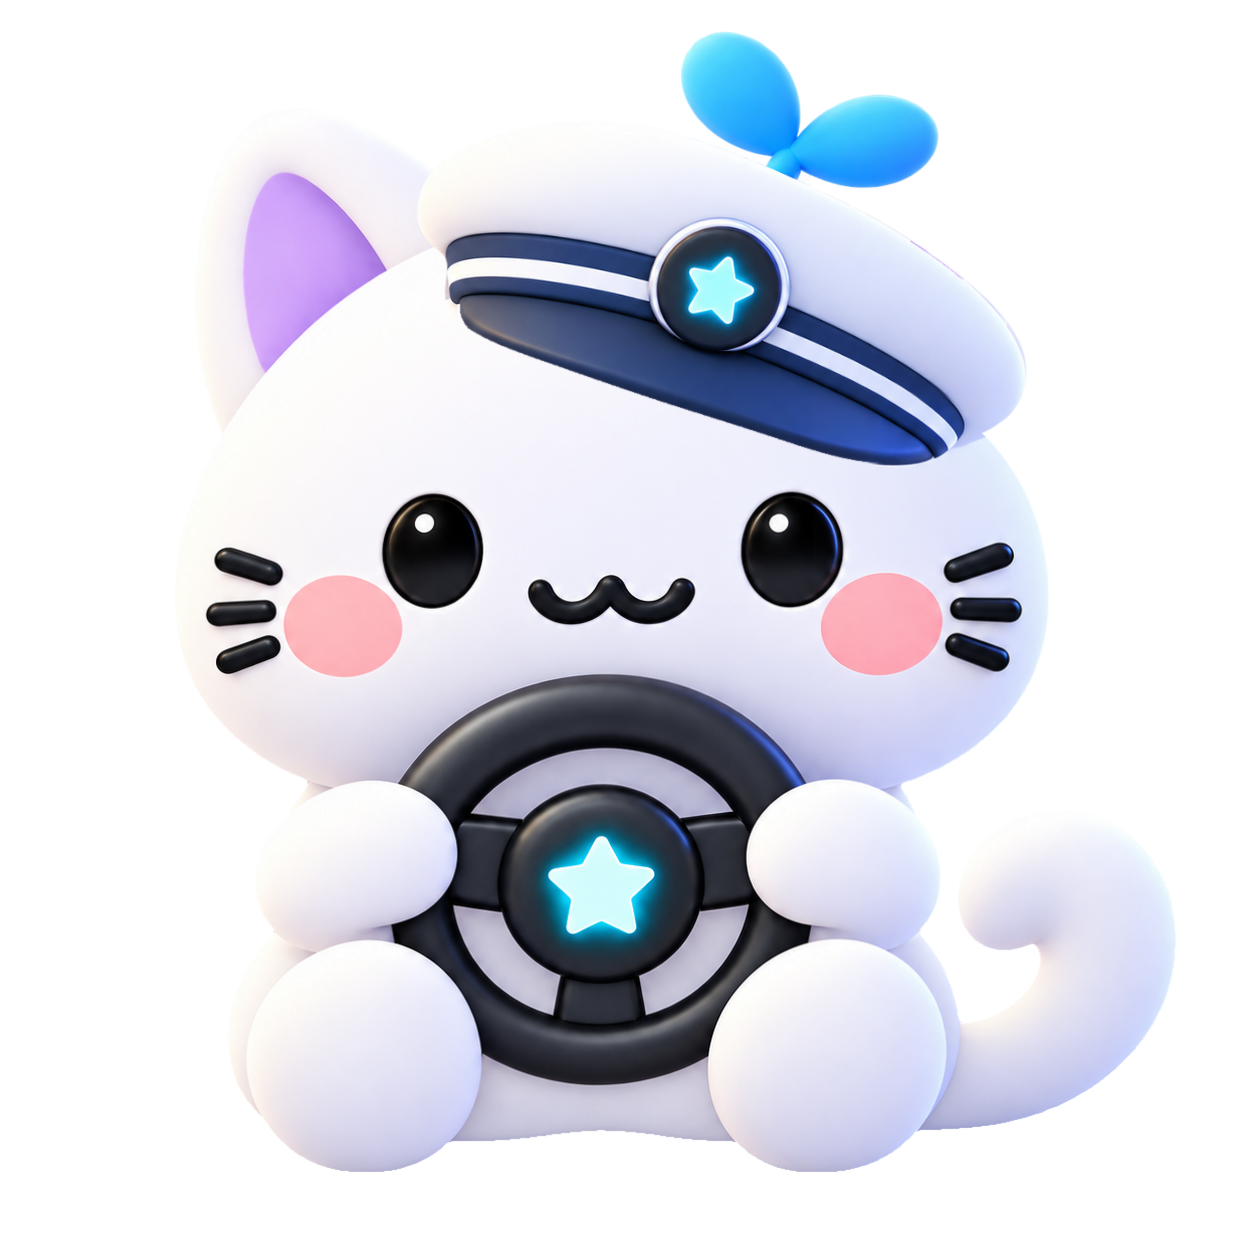
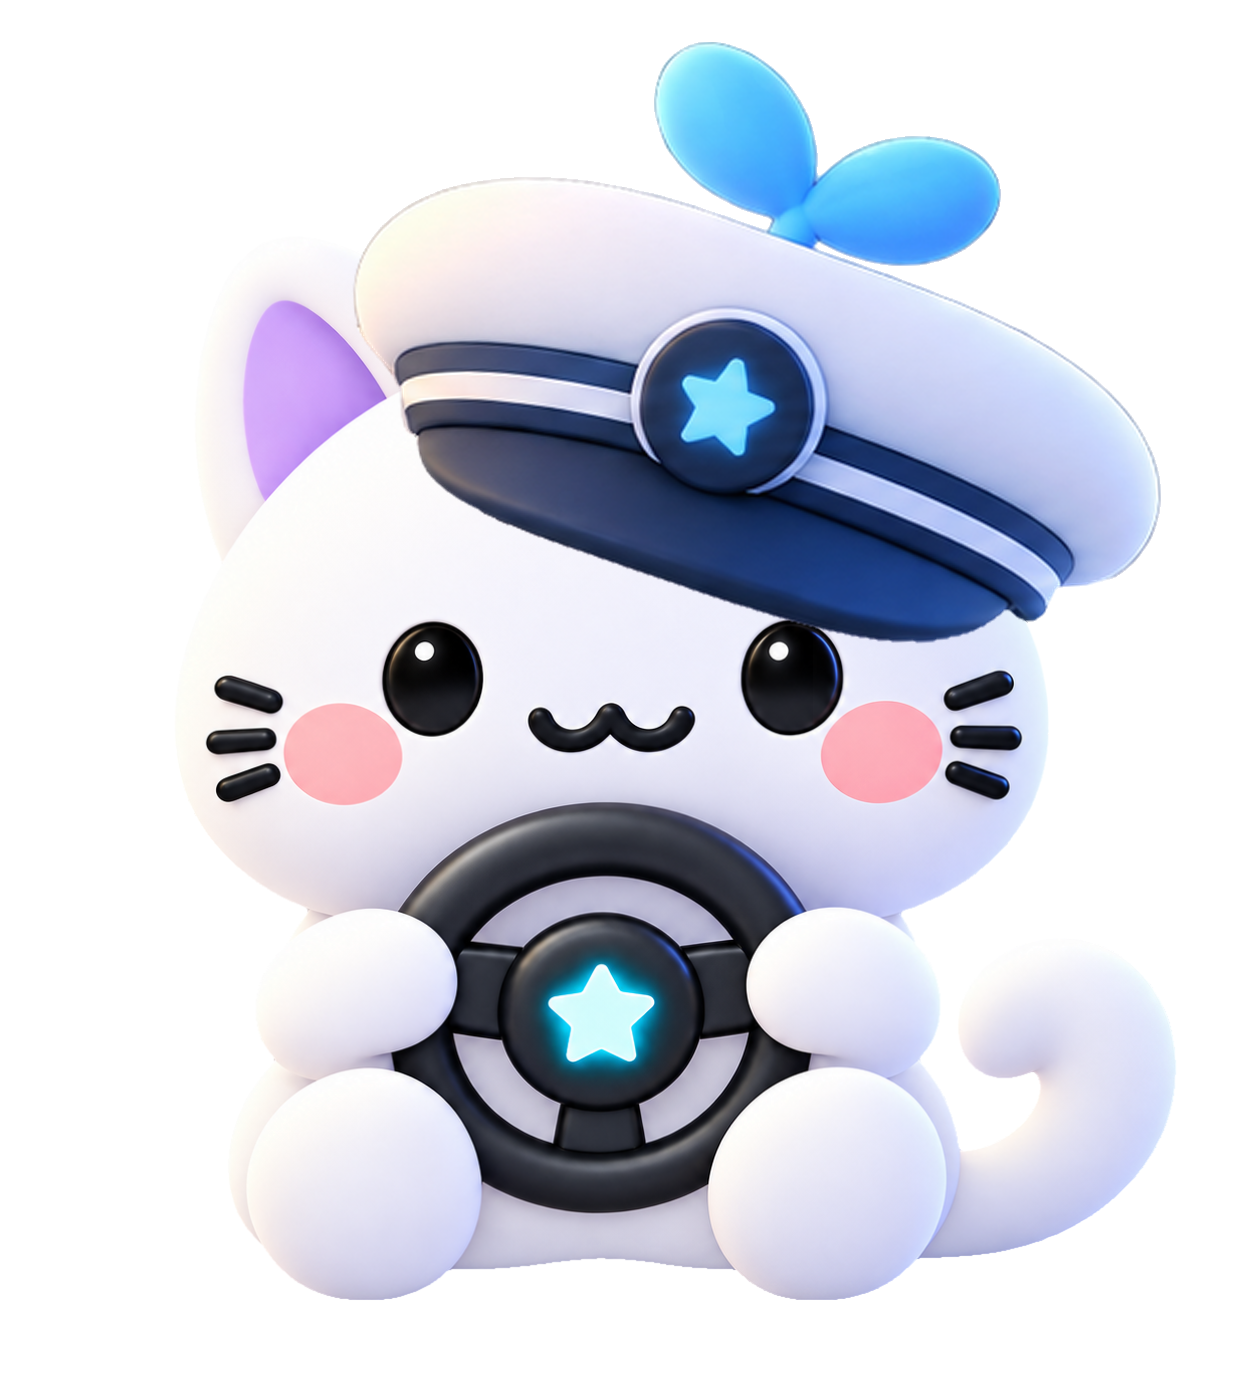
fix(ui): fit large Luna cap in idle and happy
- Match idle and happy equipment to the original fitted cap without edge debris

- Replace cap artwork and restore padded idle coordinates with crop and geometry checks

diff --git a/core/core-ui/src/test/java/com/monsters/mobimon/core/ui/PetAvatarTest.kt b/core/core-ui/src/test/java/com/monsters/mobimon/core/ui/PetAvatarTest.kt
@@ -413,10 +413,12 @@ class PetAvatarTest {
         val frames = LunaAnimationCache.getOrLoadFrames(context, appearance = LunaAppearance.HAT)
         frames.forEach { image ->
             val bitmap = image.asAndroidBitmap()
-            // Interior of the old exposed ear, above the tilted cap crown.
-            assertEquals(0, android.graphics.Color.alpha(bitmap.getPixel(500, 110)))
+            assertEquals(627, bitmap.width)
+            assertEquals(691, bitmap.height)
+            // The former ear must not protrude behind the new crown.
+            assertEquals(0, android.graphics.Color.alpha(bitmap.getPixel(540, 140)))
             // The opposite ear must remain visible.
-            assertTrue(android.graphics.Color.alpha(bitmap.getPixel(150, 130)) > 240)
+            assertTrue(android.graphics.Color.alpha(bitmap.getPixel(150, 194)) > 240)
         }
     }
 
@@ -516,9 +518,17 @@ class PetAvatarTest {
         listOf(mobiHappy, lunaHappy, mobiHeadphonesHappy, mobiGogglesHappy, lunaCapHappy, lunaSunglassesHappy)
             .forEach { asset ->
                 val crop = requireNotNull(asset.crop)
-                val canvas = if (asset == mobiHappy) 2508 else 1254
+                val context =
+                    androidx.test.core.app.ApplicationProvider
+                        .getApplicationContext<android.content.Context>()
+                val options =
+                    android.graphics.BitmapFactory
+                        .Options()
+                        .apply { inJustDecodeBounds = true }
+                android.graphics.BitmapFactory.decodeResource(context.resources, asset.resourceId, options)
+                val canvas = options.outHeight
                 assertTrue(crop.x >= 0 && crop.y >= 0)
-                assertTrue(crop.x + crop.width <= canvas && crop.y + crop.height <= canvas)
+                assertTrue(crop.x + crop.width <= options.outWidth && crop.y + crop.height <= canvas)
                 assertTrue(crop.height >= canvas * 0.87)
                 assertEquals(1f, asset.visualScale)
             }

diff --git a/core/core-ui/src/main/java/com/monsters/mobimon/core/ui/LunaIdleAnimation.kt b/core/core-ui/src/main/java/com/monsters/mobimon/core/ui/LunaIdleAnimation.kt
@@ -54,6 +54,16 @@ internal object LunaIdleTimeline {
     }
 }
 
+// Hat frames add 128 source pixels above the original 1254-square body canvas.
+// Restore that origin for animated frames and the first-frame/reduced-motion fallback.
+internal fun lunaIdleDestination(
+    side: Int,
+    appearance: LunaAppearance,
+): Pair<IntOffset, IntSize> {
+    val top = if (appearance == LunaAppearance.HAT) (side * 128f / 1254f).toInt() else 0
+    return IntOffset(0, -top) to IntSize(side, side + top)
+}
+
 /** Blend only adjacent, aligned breathing poses; retain crisp authored blinks. */
 @Composable
 fun LunaIdleBreathAnimation(
@@ -97,10 +107,20 @@ fun LunaIdleBreathAnimation(
             ).semantics { if (contentDescription != null) this.contentDescription = contentDescription }
             .drawWithCache {
                 val side = size.minDimension.toInt()
-                val destination = IntSize(side, side)
-                val offset = IntOffset(((size.width - side) / 2).toInt(), ((size.height - side) / 2).toInt())
+                val (origin, destination) = lunaIdleDestination(side, appearance)
+                val offset =
+                    IntOffset(
+                        ((size.width - side) / 2).toInt() + origin.x,
+                        ((size.height - side) / 2).toInt() + origin.y,
+                    )
                 val layerPaint = Paint()
-                val layerBounds = Rect(0f, 0f, size.width, size.height)
+                val layerBounds =
+                    Rect(
+                        offset.x.toFloat(),
+                        offset.y.toFloat(),
+                        (offset.x + destination.width).toFloat(),
+                        (offset.y + destination.height).toFloat(),
+                    )
                 onDrawBehind {
                     val ready = animateFrames && frames.size == LunaIdleTimeline.FRAME_COUNT
                     val time = if (ready) elapsed.longValue else 0L

diff --git a/core/core-ui/src/test/java/com/monsters/mobimon/core/ui/LunaIdleTimelineTest.kt b/core/core-ui/src/test/java/com/monsters/mobimon/core/ui/LunaIdleTimelineTest.kt
@@ -6,6 +6,21 @@ import org.junit.Test
 
 class LunaIdleTimelineTest {
     @Test
+    fun paddedHatKeepsTheOriginalBodyScaleAndGround() {
+        for (side in listOf(128, 256, 627, 1254)) {
+            val (normalOrigin, normalSize) = lunaIdleDestination(side, LunaAppearance.NORMAL)
+            val (hatOrigin, hatSize) = lunaIdleDestination(side, LunaAppearance.HAT)
+            assertEquals(normalSize.width, hatSize.width)
+            assertEquals(normalOrigin.y + normalSize.height, hatOrigin.y + hatSize.height)
+            assertTrue(hatOrigin.y < normalOrigin.y)
+            assertEquals(
+                lunaIdleDestination(side, LunaAppearance.NORMAL),
+                lunaIdleDestination(side, LunaAppearance.SUNGLASSES),
+            )
+        }
+    }
+
+    @Test
     fun breathingAdvancesBetweenSpriteBoundaries() {
         assertEquals(0, LunaIdleTimeline.frameAt(16_000_000L))
         assertEquals(0, LunaIdleTimeline.frameAt(32_000_000L))

diff --git a/core/core-ui/src/main/java/com/monsters/mobimon/core/ui/CharacterArtwork.kt b/core/core-ui/src/main/java/com/monsters/mobimon/core/ui/CharacterArtwork.kt
@@ -82,7 +82,7 @@ object CharacterArtwork {
             "accessory:mobi_goggles" to
                 CharacterAsset(R.drawable.mobimon_mobi_goggles_happy, AssetCrop(152, 58, 985, 1159)),
             "accessory:luna_cap" to
-                CharacterAsset(R.drawable.mobimon_luna_cap_happy, AssetCrop(49, 17, 1205, 1237)),
+                CharacterAsset(R.drawable.mobimon_luna_cap_happy, AssetCrop(49, 0, 1166, 1336)),
             "accessory:luna_sunglasses" to
                 CharacterAsset(R.drawable.mobimon_luna_sunglasses_happy, AssetCrop(49, 50, 1166, 1204)),
         )

diff --git a/docs/DESIGN.md b/docs/DESIGN.md
@@ -203,6 +203,10 @@ sprout timing; fitted items follow the head with their own sprout occlusion.
 Still previews retain the canonical open-eye pose.
 Luna idle keeps its 2.2-second loop, blends adjacent breathing poses and uses
 crisp, shorter blink poses; normal, cap and sunglasses retain their fitted artwork.
+Cap idle and happy use the large fitted cap from the registered item reference.
+Idle restores the original body origin beneath added top padding, including still
+and reduced-motion rendering. Other cap action/status clips retain their earlier
+artwork until separately migrated.
 
 Respect the shared motion preference; animation never authorizes commands.
 Settings controls floating wandering; unknown/failed reads keep it stationary.
